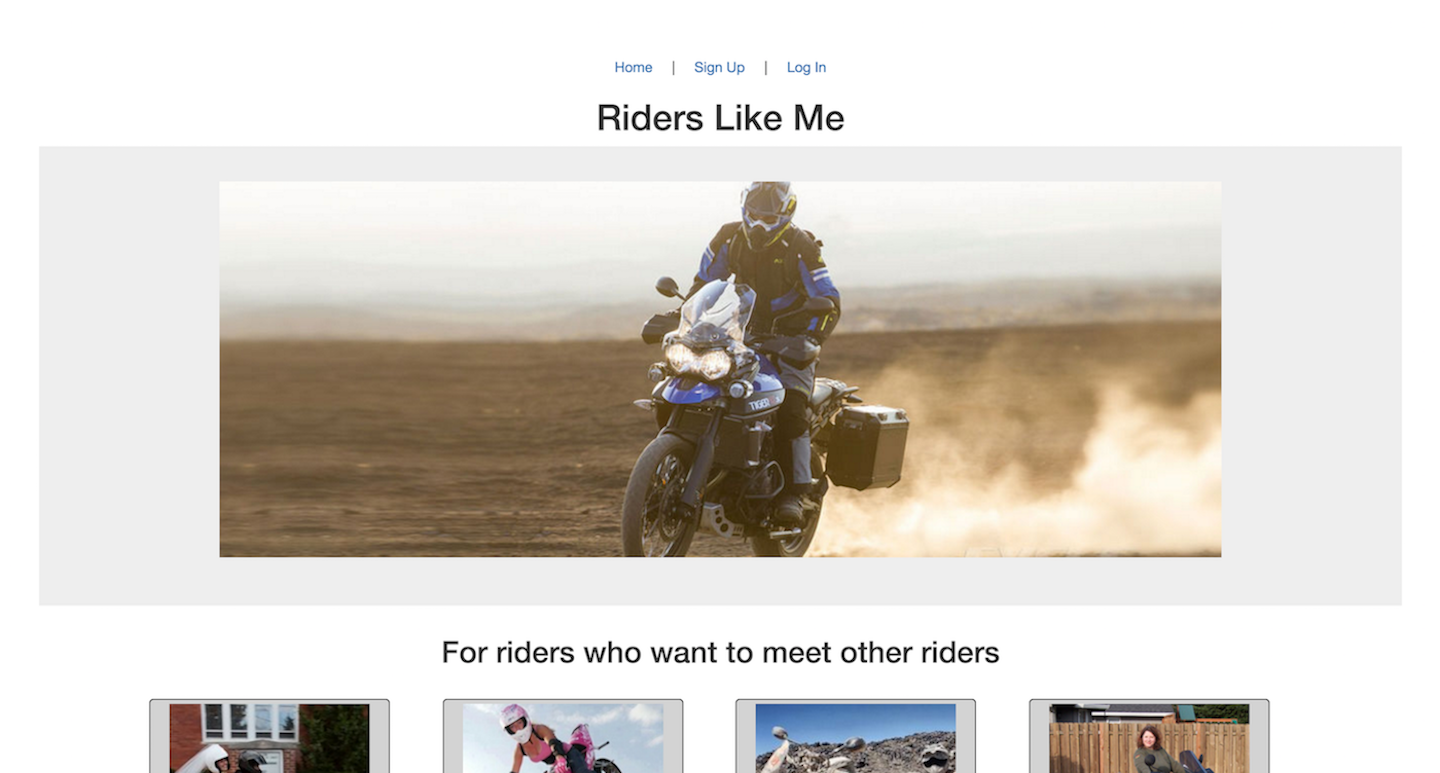
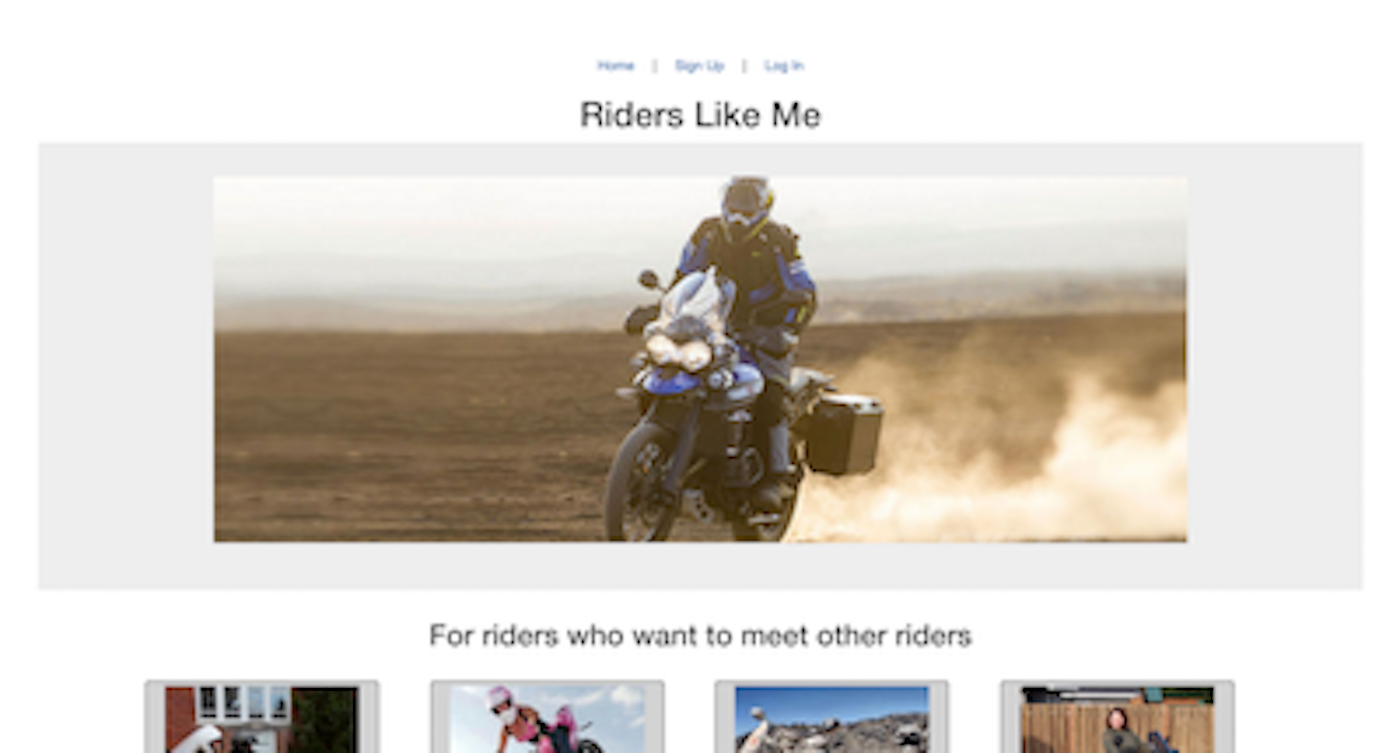
changed photos

diff --git a/index.html b/index.html
@@ -57,7 +57,7 @@
             <br /><br />
           </div>
         </div>
-        <div class="parallax"><<iframe src="//giphy.com/embed/qsbgXzr3qzuxy" width="100%" height="500" frameBorder="0" class="giphy-embed" allowFullScreen></iframe><p><a href="https://giphy.com/gifs/3B8gZNKD9Fs8U"></a></p>" alt="Unsplashed background img 1"></div>
+        <div class="parallax"><img src="image/Bethlehem.jpg" alt="Unsplashed background img 3"></div>
       </div>
     </div>
 
@@ -107,7 +107,7 @@
             </div>
           </div>
         </div>
-        <div class="parallax"><img src="image/tower.jpg" alt="Unsplashed background img 2"></div>
+        <div class="parallax"><img src="image/robot.jpg" alt="Unsplashed background img 2"></div>
       </div>
     </div>
 
@@ -196,12 +196,12 @@
         <div class="container">
           <div class="row center">
             <div class="quote">
-              <h3 class="header col-xs-12 col-sm-12 col-md-12 col-lg-12 bold light">Partner me with a visionary who has a dream, <br> and I will pave the road there.</h3>
+              <h3 class="header col-xs-12 col-sm-12 col-md-12 col-lg-12 bold black-text"></h3>
             </div>
           </div>
         </div>
       </div>
-      <div class="parallax"><img src="image/la.jpg" alt="Unsplashed background img 3"></div>
+      <div class="parallax"><img src="image/framed.jpg" alt="Unsplashed background img 3"></div>
     </div>
 
     <footer class="page-footer white">
@@ -212,6 +212,7 @@
               <div class="col-xs-12 col-sm-12 col-md-12 col-lg-12 bold">
                 <h5 class="black-text">About</h5>
                 <img class="kyle" src="image/kyle.JPG" alt="">
+                <h4>Partner me with a visionary who has a dream, <br/> and I will pave the road there.</h4><br/>
                 <p class="black-text text-lighten-4">I am a full stack web developer who
                 has built several applications using backend frameworks such as Ruby, Rails and MEAN stack.
                 When I am not creating amazing sites, I am enjoying my family or riding motorcycles.

diff --git a/css/style.css b/css/style.css
@@ -24,7 +24,7 @@
 }
 
 .parallax-container {
-  min-height: 500px;
+  min-height: 650px;
   line-height: 0;
   height: auto;
   color: rgba(255,255,255,.9);
@@ -120,6 +120,7 @@ footer.page-footer {
 .quote {
   text-align: center;
 }
+
 
 
 
